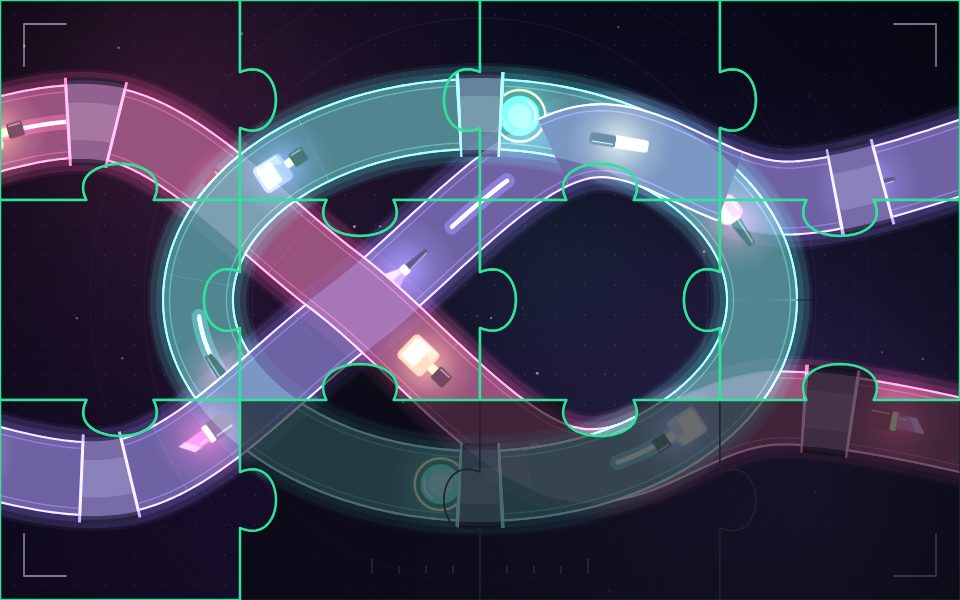
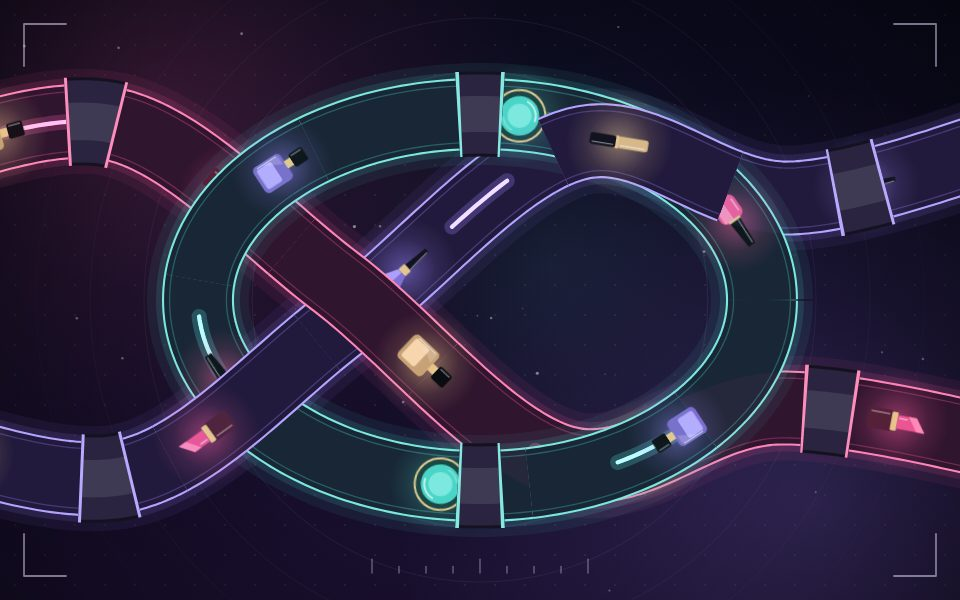
Docs: cenas dinâmicas dos elencos e desafios, com quadros, telas e medições
CENAS_DINAMICAS.md descreve o motor, as dez cenas e as variantes (quem usa cada uma), o quebra-cabeça por
estado, como pôr carta (com as interações antes e depois), o desempenho medido no app e no motor e o que
ainda fica abaixo do padrão; quadros das variantes, do quebra-cabeça e das telas no celular, no computador,
no tema escuro e no alto contraste.

Claude-Session: https://claude.ai/code/session_01Ro1VbnwobjdNu3DmvBpR5K

diff --git a/docs/flair/cbc/CENAS_DINAMICAS.md b/docs/flair/cbc/CENAS_DINAMICAS.md
@@ -1,0 +1,188 @@
+# Cenas dinâmicas dos elencos e dos Desafios de Montagem
+
+O desenho de cada elenco e de cada Desafio de Montagem é uma **cena 2D animada** (canvas), e essa cena **é o
+quebra-cabeça**: cada peça é uma janela para a mesma animação, com uma só base de tempo. O elemento que sai de uma
+peça encaixada entra na vizinha sem emenda e some onde a peça falta.
+
+Direção de arte pedida pelo dono: "simples, porém ultra sofisticados e tecnológicos". Por isso: poucas formas,
+espaço negativo, geometria precisa, linhas finas de luz, vidro com brilho suave, paleta contida (uma luz e um ou dois
+acentos), movimento liso e com propósito (deslizar por túneis, pulsos de luz pelos trilhos). Nada de traço infantil:
+o elenco é facetado e geométrico (`lib/flair/cenas/formas*.ts`), e as marcas do FashionAI vêm dos próprios ícones do
+app (`/icons/fai`), sem emoji de terceiros nem marca real.
+
+## Motor
+
+`lib/flair/cenas/` (cada arquivo dentro do limite de linhas):
+
+| Arquivo | Papel |
+| --- | --- |
+| `tipos.ts` | o que é uma cena: paleta, trilhos (túnel de vidro, fio, pontes, mangas, pulsos), elenco por grupo, giros, enfeites |
+| `caminho.ts` | geometria pura: lê o caminho SVG (M L H V C Q Z), amostra e dá posição e direção em qualquer fração |
+| `motor.ts` | onde está cada viajante, pulso e giro no instante t; pontes automáticas onde um trilho passa por cima de outro |
+| `pintura.ts` | pintor: o que é parado vira camadas pintadas uma vez; a cada quadro só empilha camadas e carimba o elenco |
+| `sprites.ts` | carimbos do elenco (formas e ícones do app) pintados uma vez por tamanho |
+| `pecas.ts` | recorte das peças, contorno, folga (solta, quase, encaixada) e véu por estado; cada peça copia só a caixa dela |
+| `tons.ts` | o quadro sem cor e com meia cor, pintados uma vez por quadro (meia resolução) para as peças soltas e quase no lugar |
+| `palco.ts` | junta pintor e peças, com a mola das peças e o floreio da arte completa |
+| `relogio.ts`, `batida.ts` | base de tempo única (o relógio do navegador) e uma só batida de quadros para todas as cenas da página |
+| `variante.ts` | a mesma cena com o matiz girado e espelhada (ver "Quem usa cada cena") |
+| `cenas/*.ts` | **um arquivo de definição por cena** (só dados) |
+
+Ligação com a tela: `components/flair/cenas/use-cena-viva.ts` e `cena-viva.tsx` (com a taxa adaptativa: se pintar
+custa em média mais de 9 ms no aparelho, a cena pinta a ~30 qps, sempre no instante do relógio; miniaturas na
+densidade 1).
+
+- **Laço sem emenda**: todo grupo anda em fração do trilho com período próprio; em trilho fechado dá a volta, em
+  trilho aberto o viajante surge e some em fade nas pontas (nunca aparece de repente). Fases escalonadas por grupo.
+- **Por cima e por baixo**: trilhos com `sobre` ganham pontes nos cruzamentos; `mangas` cobrem o viajante (portal
+  da máquina, por trás do lustre). O viajante sobe de nível junto com a ponte.
+- **Movimento reduzido** (sistema ou app): um quadro parado rico (`Cena.quadro`), sem batida; as peças mudam de lugar
+  na hora.
+- **Pausa**: fora da tela (IntersectionObserver) ou com a aba escondida, a cena sai da batida; ao voltar, retoma no
+  tempo certo (o relógio é o do navegador).
+- **Acessibilidade**: `role="img"` com rótulo que descreve a cena e o andamento ("Quebra-cabeça de 9 peças: 4
+  encaixadas, 2 quase no lugar, 1 solta e 2 faltando"); miniaturas são decorativas (o texto do cartão já diz).
+
+## O quebra-cabeça
+
+Uma peça por vaga (desafios) ou por linha (elencos), como antes:
+
+| Estado | Na tela |
+| --- | --- |
+| vaga vazia (`coberta`) | sem peça: contorno tracejado no escuro, a cena não aparece ali |
+| carta posta, servidor ainda não julgou (`chegando`) | a peça entra de fora e fica perto, cinza e escura |
+| link fraco / sintonia 0–1 (`vermelha`) | peça solta, torta, cinza e escura, contorno vermelho |
+| link médio / sintonia 2 (`laranja`) | quase no lugar, com parte da cor, contorno laranja |
+| link forte / sintonia 3 (`verde`) | encaixada, cor inteira |
+| entrega completa | as linhas de corte somem, os túneis acendem e o elenco acelera e assenta (floreio de 2,8 s) |
+
+O servidor continua juiz: a peça fica `chegando` até o `/conferir` (elencos) ou o `/check` (desafios) responder para
+as cartas de agora.
+
+## As dez cenas
+
+| Cena | Conceito | Elenco em movimento | Paleta | Quadros |
+| --- | --- | --- | --- | --- |
+| Túneis de cor (`tuneis-de-cor`) | três túneis de vidro que se trançam, cada um por cima de um e por baixo do outro | batons, perfumes, esmaltes, pincéis, pós, rímeis | rosa `#ff5c9f`, lilás `#9a86ff`, água `#4fe0d2`, ouro | `cenas/tuneis-de-cor-1.jpg`, `-2.jpg` |
+| Zigue-zague FashionAI (`zigue-zague`) | três trilhos de luz em zigue-zague, cada um num ritmo e num sentido | as marcas do app (curtir, favoritar, reações, FAI Points) em medalhões | magenta, turquesa, âmbar sobre quase preto | `cenas/zigue-zague-*.jpg` |
+| Túneis de moda (`tuneis-de-moda`) | túneis feitos de moda: zíper, cinto com fivelas, fita de cetim em laço | raposa de lenço, cisne de colar, gato de gravata-borboleta, garça com bolsa | esmeralda, ouro, coral | `cenas/tuneis-de-moda-*.jpg` |
+| Linha de cabides (`linha-de-cabides`) | mapa de metrô: linhas retas e viradas de 45°, estações em anel | cabides pendurados com blusa, vestido e calça | céu, coral, areia | `cenas/linha-de-cabides-*.jpg` |
+| Relojoaria do ateliê (`relojoaria`) | engrenagens e carretéis engatados, órbitas de luz e uma correia | tesouras, dedais, agulhas, botões | ouro, violeta, gelo | `cenas/relojoaria-*.jpg` |
+| Rio de tecido (`rio-de-tecido`) | três rolos de tecido que se desenrolam em faixas, em ondas | contas e botões rolando na correnteza | água, areia, rosa | `cenas/rio-de-tecido-*.jpg` |
+| Tear de luz (`tear`) | urdidura reta e trama em ondas, ora pela frente, ora por trás | agulhas levando a trama | rosê, gelo, índigo | `cenas/tear-*.jpg` |
+| Escadaria de saltos (`escadaria`) | três lances de escada de luz sob lustres | sapatos de salto subindo degrau a degrau | ouro, rubi | `cenas/escadaria-*.jpg` |
+| Esteira de costura (`esteira`) | três esteiras de vidro com portais de máquina de costura e pesponto | camisetas e vestidos que somem no portal e saem do outro lado | lima, branco, azul | `cenas/esteira-*.jpg` |
+| Corrida de contas (`corrida-de-contas`) | pista de bolinhas: rampas de vidro em zigue-zague e um laço | botões e contas rolando | violeta, rosa, sol | `cenas/corrida-de-contas-*.jpg` |
+
+Cada par `-1`/`-2` são dois instantes da mesma cena (1,2 s de diferença): o script de conferência verifica que os
+quadros 0, 1,2 e 2,4 s são diferentes (movimento) e os testes verificam que o laço fecha sem salto.
+
+## Quem usa cada cena (nenhum uso repete o desenho)
+
+São vinte usos: os cinco elencos e os quinze cenários dos desafios. Cada cena aparece uma vez como é e uma vez como
+**variante** (`variante.ts`: matiz girado e espelhada na horizontal; o elenco continua de pé e legível, só anda para o
+outro lado). O teste `variante.test.ts` garante que os vinte desenhos são diferentes.
+
+| Cena | Como é | Variante |
+| --- | --- | --- |
+| Túneis de cor | elenco Paleta do Ateliê | cenário `semana` (matiz +200°) |
+| Zigue-zague FashionAI | elenco Casa da Marca | cenário `festival` (+70°) |
+| Túneis de moda | cenário `casamento` | cenário `primavera` (−60°) |
+| Linha de cabides | elenco Primeiro Elenco | cenário `brecho` (+35°) |
+| Relojoaria do ateliê | elenco Elenco Lendário | cenário `halloween` (+150°) |
+| Rio de tecido | cenário `ipanema` | cenário `armario` (+190°) |
+| Tear de luz | cenário `paris` | cenário `serra` (+90°) |
+| Escadaria de saltos | elenco Noite de Estreia | cenário `gala` (+200°) |
+| Esteira de costura | cenário `estagio` | cenário `desfile` (+160°) |
+| Corrida de contas | cenário `carnaval` | cenário `popup` (−45°) |
+
+As vinte lado a lado: `cenas/variantes-1.jpg` e `cenas/variantes-2.jpg` (à esquerda como é, à direita a variante).
+Onde aparece: tela do elenco (`components/flair/elencos`), tela do desafio (`components/flair/cbc-play.tsx`, no lugar
+da antiga `cbc-scene.tsx`) e miniaturas animadas nas listas de elencos e de desafios (`cenas/tela-lista-desafios.jpg`).
+
+## Pôr carta: simples, fluido e direto
+
+A bandeja de cartas (`components/flair/montagem/bandeja.tsx`) fica presa embaixo da tela, ao alcance do polegar, e
+mostra as cartas da **vaga em destaque**. A primeira vaga vazia já começa em destaque.
+
+- **Um toque põe**: tocar numa carta põe na vaga e o destaque passa para a próxima vaga vazia.
+- **Outra vaga**: tocar na vaga (a bandeja troca para as cartas dela) e tocar na carta; ou arrastar a carta da
+  bandeja até qualquer vaga.
+- **Trocar**: arrastar a carta de uma vaga para outra (as duas trocam); na bandeja, a carta que está em outra vaga diz
+  "em outra vaga: troca".
+- **Tirar**: arrastar a carta da vaga para a bandeja, ou o botão Tirar.
+- **Desfazer** a última jogada: botão ou tecla Z. A montagem fica guardada no aparelho entre visitas.
+- **Cartas que não cabem** ficam apagadas com o motivo numa linha ("É Acessório; a vaga pede Parte de cima").
+- **Teclado e controle** (elencos e desafios, `use-cbc-controle.ts` nos desafios): setas ou direcional escolhem a
+  vaga, Espaço ou A entra na bandeja, setas escolhem a carta, Espaço ou A põe (o destaque segue para a próxima vaga
+  vazia), Backspace ou B sai da bandeja ou tira a carta; Z desfaz. Tab e Enter também funcionam (tudo é botão).
+- Sem confirmação, sem gaveta abaixo da dobra, sem salto de layout. Quando o destaque passa para uma vaga que ficaria
+  atrás da bandeja, a página rola só o que falta para ela aparecer (`use-vaga-a-vista.ts`; imediato com movimento
+  reduzido).
+- A carta entra com transição, as linhas acendem na cor do link e a peça do quebra-cabeça reage na hora (entra como
+  `chegando` e assenta quando o servidor responde).
+
+**Interações para pôr uma carta** (medido com o app rodando sobre a API simulada, Playwright, 390×844):
+
+| | Antes | Agora |
+| --- | --- | --- |
+| Desafio, próxima vaga | 2 toques (vaga, depois a carta num diálogo que cobria o tabuleiro) | **1 toque** (a vaga já está em destaque) |
+| Desafio, 5 vagas | 10 toques, tabuleiro escondido a cada escolha | **5 toques**, tabuleiro e peças à vista o tempo todo |
+| Elenco, próxima vaga | 2 toques e 2 rolagens (a gaveta abria abaixo do tabuleiro, fora da tela no celular) | **1 toque** |
+| Qualquer vaga | 2 toques + rolagem | 2 toques (vaga, carta) ou 1 arrasto |
+
+Telas: `cenas/tela-desafio-celular-inicio.jpg`, `-2-cartas.jpg`, `-5-cartas.jpg`, `cenas/tela-desafio-computador.jpg`
+(1440×900), `cenas/tela-elenco-celular-inicio.jpg`, `-completo.jpg`, `cenas/tela-desafio-tema-escuro.jpg`,
+`cenas/tela-desafio-alto-contraste.jpg`. Quebra-cabeça: `cenas/quebra-cabeca-vazio.jpg`, `-parcial.jpg`,
+`-completo.jpg`.
+
+## Desempenho
+
+Duas medições, ambas no Chromium headless (Playwright), sem GPU (rasterização em software, o caso pessimista):
+
+**1. O app de verdade** (`next dev`, API simulada, 390×844, densidade 2), quadros por segundo da página medidos por
+`requestAnimationFrame` durante 4 s, com a CPU desacelerada pelo DevTools (4× ≈ celular médio, 6× ≈ celular fraco):
+
+| Tela | CPU 1× | CPU 4× | CPU 6× |
+| --- | --- | --- | --- |
+| Lista de desafios (2 miniaturas animando na tela) | 60 qps | 60 qps (era 28 antes das miniaturas na densidade 1 e da taxa adaptativa) | — |
+| Desafio com 3 cartas postas (quebra-cabeça) | 60 qps | 43 qps (era 37), cena a ~30 qps | 20 qps |
+
+**2. O motor sozinho** (página isolada, tela de 672 px, ms por quadro com leitura forçada do canvas a cada quadro,
+que obriga a rasterizar tudo): cena inteira / quebra-cabeça de 9 peças / de 17 peças, em estados misturados.
+
+| Cena | CPU 1× | CPU 4× | CPU 6× |
+| --- | --- | --- | --- |
+| Túneis de cor | 1,8 / 7,5 / 8,4 | 9,7 / 26,9 / 30,3 | 12,6 / 60,1 / 65,3 |
+| Zigue-zague | 4,7 / 10,9 / 8,8 | 5,2 / 32,6 / 35,8 | 10,3 / 47,6 / 63,1 |
+| Túneis de moda | 1,6 / 6,9 / 9,8 | 6,5 / 27,1 / 31,5 | 9,7 / 56,0 / 80,5 |
+| Linha de cabides | 1,3 / 7,6 / 9,0 | 6,0 / 37,6 / 43,9 | 16,7 / 64,8 / 55,7 |
+| Relojoaria | 2,5 / 7,8 / 9,0 | 16,8 / 53,7 / 60,0 | 21,0 / 64,0 / 77,0 |
+| Rio de tecido | 1,6 / 7,6 / 9,2 | 6,8 / 35,8 / 50,7 | 12,7 / 56,9 / 64,3 |
+| Tear | 2,3 / 7,9 / 10,2 | 8,8 / 34,6 / 41,2 | 15,5 / 61,8 / 66,7 |
+| Escadaria | 1,3 / 6,8 / 9,8 | 7,1 / 31,8 / 37,6 | 6,0 / 51,2 / 55,0 |
+| Esteira | 1,7 / 7,8 / 7,6 | 6,3 / 34,6 / 35,9 | 9,7 / 46,5 / 67,8 |
+| Corrida de contas | 1,5 / 11,4 / 8,7 | 7,6 / 36,3 / 38,7 | 10,9 / 54,9 / 63,6 |
+
+Leitura: a cena inteira (miniaturas, arte completa) é barata; o quebra-cabeça custa de 7 a 11 ms por quadro sem
+desaceleração e passa de 30 ms a 4×, por isso a taxa adaptativa leva a cena a ~30 qps nesses aparelhos. As
+variantes custam o mesmo que a cena de origem (só mudam cores e coordenadas). Num celular de verdade o canvas 2D é
+acelerado pela GPU e o custo de pixel cai; essa medição não foi feita num aparelho físico.
+
+Por que é barato: fundo, túneis e enfeites são pintados uma vez em camadas; cada quadro só empilha camadas e carimba
+o elenco já pintado (`drawImage`). Todas as cenas da página dividem uma só batida de `requestAnimationFrame`, e a cena
+fora da tela ou com a aba escondida não pinta.
+
+## O que ainda fica abaixo do padrão
+
+- A variante é a mesma coreografia com outra luz e espelhada: os vinte usos são diferentes, mas há dez coreografias.
+  Uma cena própria para cada cenário dos desafios seria o passo seguinte.
+- Esteira de costura e Escadaria de saltos são as composições mais retas; funcionam como miniatura, mas têm menos
+  profundidade (por cima e por baixo) que as cenas de túneis.
+- O rótulo de leitura usa o nome da cena base também na variante.
+- O desempenho foi medido com CPU desacelerada no computador, não num celular de verdade. A 6× (celular fraco) a
+  tela do desafio fica em ~20 qps; o próximo passo seria baixar a densidade do quebra-cabeça nesses aparelhos.
+- Os tons sem cor ficam em meia resolução: a peça solta fica levemente mais suave que a encaixada (de propósito, mas
+  vale olhar num aparelho).
+- Os quadros das telas foram tirados com a API simulada (`scripts` de conferência fora do repositório), não com dados
+  reais.

diff --git a/docs/flair/cbc/FLAIR_CBC.md b/docs/flair/cbc/FLAIR_CBC.md
@@ -58,6 +58,8 @@ número mínimo de linhas verdes e número mínimo de linhas ligadas por um atri
 - **Aura Hype**: a faixa de Hype da carta dá brilho e partículas à carta, como no FLAIR 3D.
 - **Aura Metamorfose**: carta com química 3 e permissão Loft transforma a cor das linhas dela na paleta da carta.
 - **Aura Impersonation**: com o conjunto completo e a permissão, o avatar veste o look montado.
+- **Desenho de cada elenco e desafio** [existe]: cena 2D animada que é o próprio quebra-cabeça, e a bandeja de cartas
+  direta (um toque põe); ver `CENAS_DINAMICAS.md`.
 
 ## 4. Recompensas
 
